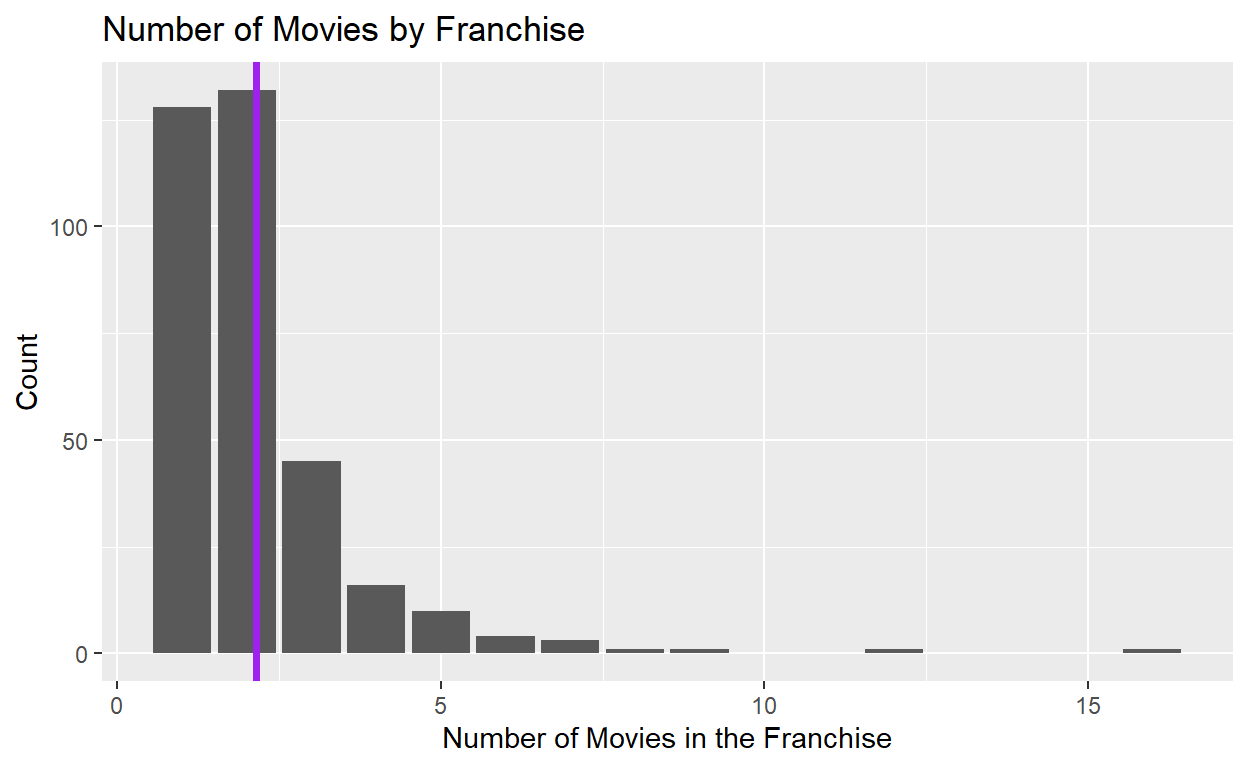
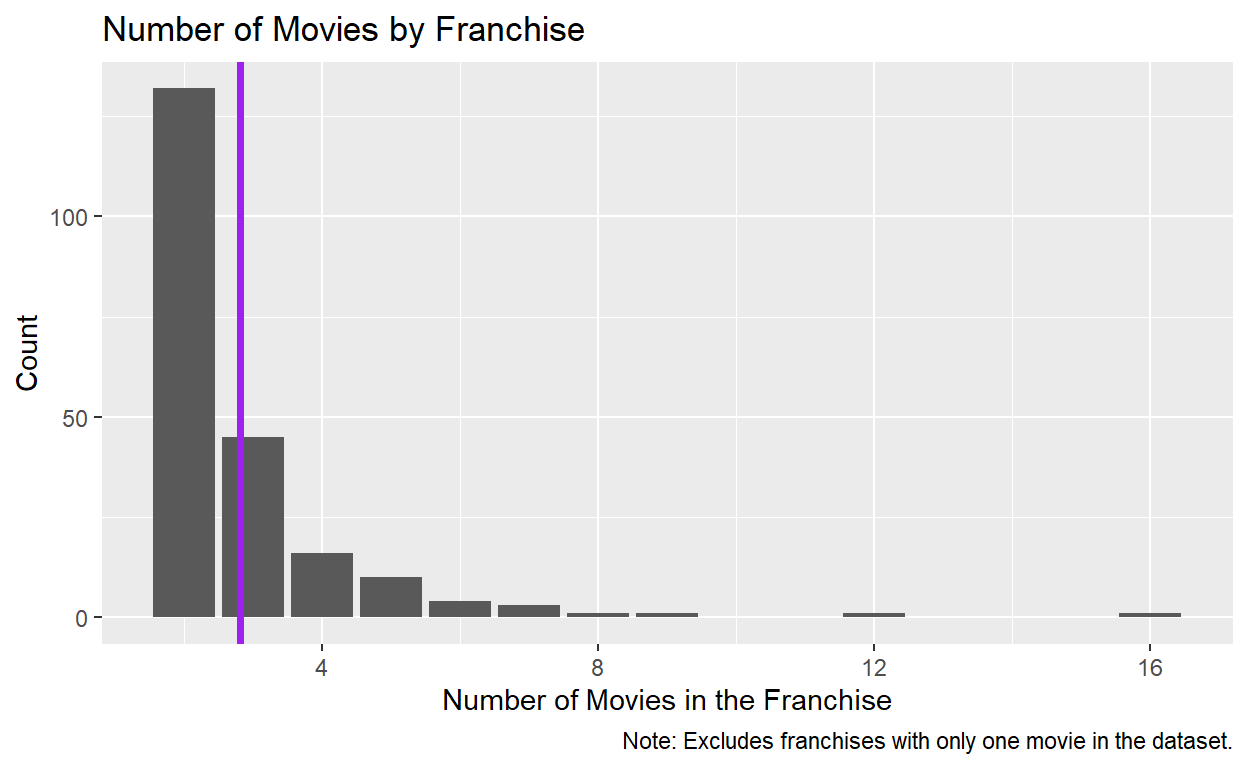
iv

diff --git a/index.html b/index.html
@@ -1555,11 +1555,12 @@ code span.wa { color: #5e5e5e; font-style: italic; } /* Warning */
 <div class="sourceCode">
 <pre class="sourceCode r"><code class="sourceCode r"><span><span class='va'>numbermovies</span> <span class='op'>&lt;-</span> <span class='va'>movies_sequels</span><span class='op'>|&gt;</span></span>
 <span>  <span class='fu'><a href='https://dplyr.tidyverse.org/reference/group_by.html'>group_by</a></span><span class='op'>(</span><span class='va'>`Movie Series`</span><span class='op'>)</span><span class='op'>|&gt;</span></span>
-<span>  <span class='fu'><a href='https://dplyr.tidyverse.org/reference/summarise.html'>summarize</a></span><span class='op'>(</span>number_of_movies <span class='op'>=</span> <span class='fu'><a href='https://dplyr.tidyverse.org/reference/context.html'>n</a></span><span class='op'>(</span><span class='op'>)</span><span class='op'>)</span></span>
+<span>  <span class='fu'><a href='https://dplyr.tidyverse.org/reference/summarise.html'>summarize</a></span><span class='op'>(</span>number_of_movies <span class='op'>=</span> <span class='fu'><a href='https://dplyr.tidyverse.org/reference/context.html'>n</a></span><span class='op'>(</span><span class='op'>)</span><span class='op'>)</span><span class='op'>|&gt;</span></span>
+<span>  <span class='fu'><a href='https://dplyr.tidyverse.org/reference/filter.html'>filter</a></span><span class='op'>(</span><span class='va'>number_of_movies</span> <span class='op'>&gt;</span> <span class='fl'>1</span><span class='op'>)</span></span>
 <span></span>
 <span>  <span class='fu'><a href='https://rdrr.io/r/base/mean.html'>mean</a></span><span class='op'>(</span><span class='va'>numbermovies</span><span class='op'>$</span><span class='va'>number_of_movies</span><span class='op'>)</span></span></code></pre>
 </div>
-<pre><code>[1] 2.137427</code></pre>
+<pre><code>[1] 2.817757</code></pre>
 </div>
 <div class="layout-chunk" data-layout="l-body">
 <div class="sourceCode">
@@ -1569,7 +1570,8 @@ code span.wa { color: #5e5e5e; font-style: italic; } /* Warning */
 <span>  <span class='fu'><a href='https://ggplot2.tidyverse.org/reference/labs.html'>labs</a></span><span class='op'>(</span></span>
 <span>    title <span class='op'>=</span> <span class='st'>"Number of Movies by Franchise"</span>,</span>
 <span>    x <span class='op'>=</span> <span class='st'>"Number of Movies in the Franchise"</span>,</span>
-<span>    y <span class='op'>=</span> <span class='st'>"Count"</span></span>
+<span>    y <span class='op'>=</span> <span class='st'>"Count"</span>,</span>
+<span>    caption <span class='op'>=</span> <span class='st'>"Note: Excludes franchises with only one movie in the dataset."</span></span>
 <span>  <span class='op'>)</span><span class='op'>+</span></span>
 <span>  <span class='fu'><a href='https://ggplot2.tidyverse.org/reference/geom_abline.html'>geom_vline</a></span><span class='op'>(</span>xintercept <span class='op'>=</span> <span class='fu'><a href='https://rdrr.io/r/base/mean.html'>mean</a></span><span class='op'>(</span><span class='va'>numbermovies</span><span class='op'>$</span><span class='va'>number_of_movies</span><span class='op'>)</span>, color <span class='op'>=</span> <span class='st'>"purple"</span>, size <span class='op'>=</span> <span class='fl'>1.25</span><span class='op'>)</span></span>
 <span></span>
